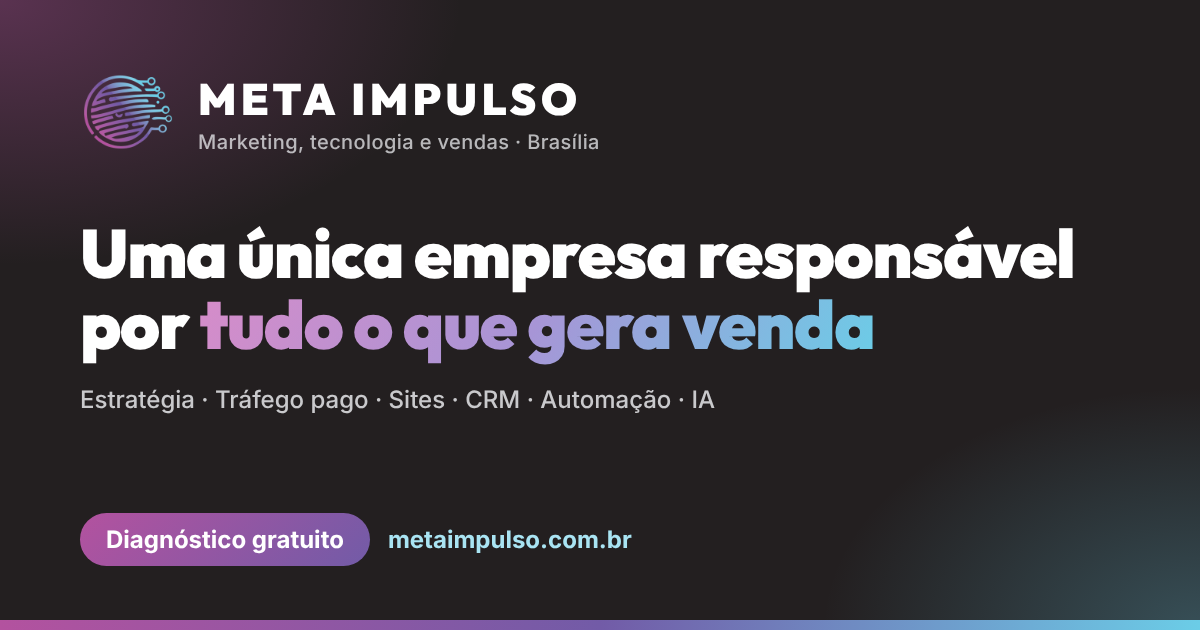
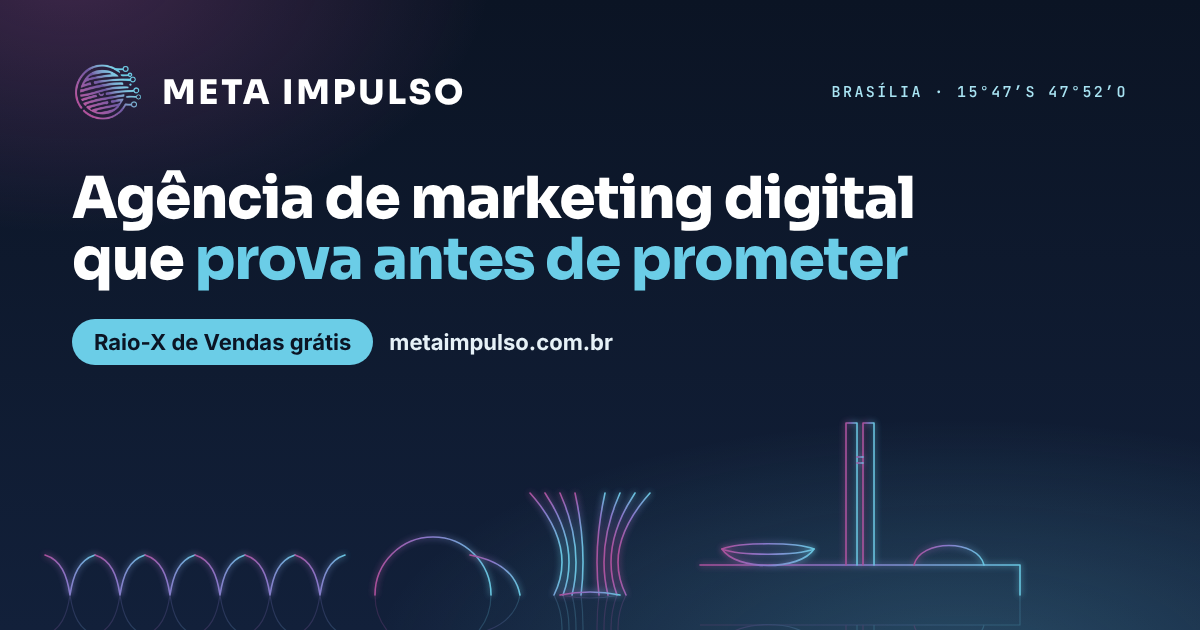
feat: identidade "Capital do Futuro" com a arquitetura de Niemeyer em tom futurista
- Skyline de Brasilia em linhas de luz (Palacio da Alvorada, Museu Nacional, Catedral
  e Congresso Nacional) com reflexo no espelho d'agua, desenhado ao abrir a pagina, no
  topo da home, das paginas de servico, do Raio-X e no rodape
- Ceu azul-noite (#0B1424 -> #12203A) em todas as faixas escuras e curva livre de
  Niemeyer no fim do topo e no inicio do rodape
- Ciano do logo vira a cor de acao: todo botao principal ciano com texto azul-noite
  (borda escura no fundo claro); botao flutuante do WhatsApp em azul-noite
- Gradiente so no logo e no skyline: palavra de destaque dos titulos em cor solida
  (violeta no claro, ciano no escuro)
- Titulos em Sora; coordenadas "Brasilia 15°47'S 47°52'O" no topo da home
- Nova imagem de compartilhamento com o skyline
- Desenho de obras em logradouros publicos e livre (Lei 9.610/98, art. 48)
- Docs de identidade e memoria atualizados

Claude-Session: https://claude.ai/code/session_01SSFr3RnVqEqFYJCmXTu4jx

diff --git a/src/site.css b/src/site.css
@@ -1611,3 +1611,135 @@ a.diag-direct-item:hover { color: var(--magenta-text); }
   .cv-credit-steps { grid-template-columns: 1fr 1fr; }
   .cv-portal-nav span { display: none; }
 }
+
+/* ============================================================
+   19. "CAPITAL DO FUTURO": Niemeyer's Brasília + Raio-X
+       night sky, line-art skyline, Niemeyer curves, cyan = action
+   ============================================================ */
+
+/* --- Night bands (hero, positioning, featured case) --- */
+.hero-cmd {
+  background:
+    radial-gradient(70% 55% at 80% 105%, rgba(107, 205, 231, 0.22) 0%, transparent 70%),
+    radial-gradient(50% 60% at 6% -5%, rgba(179, 82, 159, 0.26) 0%, transparent 70%),
+    linear-gradient(180deg, var(--night) 0%, var(--night-2) 100%);
+  /* Niemeyer's free curve instead of a straight edge */
+  border-radius: 0 0 50% 50% / 0 0 56px 56px;
+}
+.section-dark,
+.cases-featured {
+  background:
+    radial-gradient(55% 60% at 0% 0%, rgba(179, 82, 159, 0.22) 0%, transparent 70%),
+    radial-gradient(45% 55% at 100% 100%, rgba(107, 205, 231, 0.16) 0%, transparent 70%),
+    var(--night);
+}
+.raiox-blind { background: var(--night); }
+.hero-cmd-card { background: rgba(255, 255, 255, 0.055); border-color: rgba(107, 205, 231, 0.22); }
+@media (max-width: 768px) { .hero-cmd-card { background: #15233D; } }
+
+/* --- Skyline --- */
+.skyline { display: block; width: 100%; pointer-events: none; }
+.skyline-reflection { opacity: 0.22; }
+.skyline-draw path { stroke-dasharray: 1; stroke-dashoffset: 1; animation: sky-draw 2.6s cubic-bezier(0.65, 0, 0.35, 1) forwards; }
+@keyframes sky-draw { to { stroke-dashoffset: 0; } }
+.hero-cmd-city { padding-top: clamp(118px, 10.5vw, 150px); padding-bottom: calc(100vw * 225 / 1200 * 0.82); }
+.hero-cmd-city.hero-cmd-compact { padding-bottom: calc(100vw * 225 / 1200 * 0.78); }
+.hero-cmd-city .hero-cmd-title { font-size: clamp(2.1rem, 3.9vw, 3.35rem); }
+/* Full drawing on wide screens (the towers of the Congresso stay whole); phones crop the sides */
+.hero-skyline {
+  position: absolute;
+  left: 0;
+  right: 0;
+  bottom: 0;
+  height: auto;
+  aspect-ratio: 1200 / 225;
+  opacity: 0.85;
+}
+.hero-skyline-compact { opacity: 0.5; }
+.hero-coords {
+  position: absolute;
+  right: max(16px, 4vw);
+  top: clamp(120px, 10.5vw, 150px);
+  z-index: 1;
+  font-family: var(--font-mono);
+  font-size: 0.66rem;
+  letter-spacing: 0.16em;
+  text-transform: uppercase;
+  color: rgba(169, 228, 243, 0.7);
+}
+
+/* --- One color for action: cyan with night text --- */
+.btn-v16-primary,
+.quiz-btn-next {
+  background: var(--brand-cyan);
+  color: var(--night);
+  border: 1.5px solid var(--night);
+  box-shadow: 0 10px 26px rgba(11, 20, 36, 0.18);
+}
+.btn-v16-primary:hover,
+.quiz-btn-next:hover { box-shadow: 0 14px 34px rgba(11, 20, 36, 0.26); }
+.btn-v16-primary::before { background: linear-gradient(90deg, rgba(255, 255, 255, 0) 0%, rgba(255, 255, 255, 0.55) 50%, rgba(255, 255, 255, 0) 100%); }
+.hero-cmd .btn-v16-primary,
+.section-dark .btn-v16-primary,
+.cases-featured .btn-v16-primary,
+.footer-night .btn-v16-primary {
+  border-color: transparent;
+  box-shadow: 0 0 0 1px rgba(107, 205, 231, 0.4), 0 10px 34px rgba(107, 205, 231, 0.28);
+}
+.floating-capsule { background: var(--night); border-color: rgba(107, 205, 231, 0.45); box-shadow: 0 10px 30px rgba(11, 20, 36, 0.35); }
+.floating-capsule svg { color: var(--brand-cyan); stroke: var(--brand-cyan); }
+.capsule-pulse { border-color: var(--brand-cyan); }
+.plan-badge, .leak-num { background: var(--night); color: var(--brand-cyan); }
+.quiz-progress-bar { background: var(--brand-cyan); box-shadow: none; }
+
+/* --- Gradient only in the logo: highlighted words become solid color --- */
+.text-gradient {
+  background: none;
+  -webkit-text-fill-color: currentColor;
+  color: var(--brand-violet);
+}
+.text-gradient-light,
+.section-dark .text-gradient,
+.cases-featured .text-gradient {
+  background: none;
+  -webkit-text-fill-color: currentColor;
+  color: var(--brand-cyan);
+}
+.section-dark .oneteam-us .text-gradient { color: var(--brand-violet); }
+
+/* --- Night footer with the skyline and a Niemeyer curve on top --- */
+.footer-night {
+  position: relative;
+  overflow: hidden;
+  border-top: none;
+  margin-top: 2rem;
+  padding-top: calc(100vw * 225 / 1200 * 0.9);
+  color: rgba(230, 241, 247, 0.78);
+  background:
+    radial-gradient(60% 50% at 50% 0%, rgba(107, 205, 231, 0.14) 0%, transparent 70%),
+    linear-gradient(180deg, var(--night-2) 0%, var(--night) 60%);
+  border-radius: 50% 50% 0 0 / 56px 56px 0 0;
+}
+.footer-skyline { position: absolute; top: 12px; left: 0; right: 0; height: auto; aspect-ratio: 1200 / 225; opacity: 0.5; }
+.footer-night > .container { position: relative; z-index: 1; }
+.footer-night .logo-text { color: #FFFFFF; }
+.footer-night .footer-title { color: #FFFFFF; }
+.footer-night .footer-brand p,
+.footer-night .footer-contact span,
+.footer-night .footer-contact a,
+.footer-night .footer-list a { color: rgba(230, 241, 247, 0.72); }
+.footer-night .footer-list a:hover,
+.footer-night .footer-contact a:hover { color: var(--brand-cyan); }
+.footer-night .footer-social a { color: var(--brand-cyan) !important; }
+.footer-night .footer-bottom { color: rgba(230, 241, 247, 0.55); border-top-color: rgba(255, 255, 255, 0.1); }
+
+@media (max-width: 768px) {
+  .hero-cmd { border-radius: 0 0 50% 50% / 0 0 32px 32px; }
+  .hero-skyline, .footer-skyline { aspect-ratio: auto; height: 140px; }
+  .hero-cmd-city, .hero-cmd-city.hero-cmd-compact { padding-bottom: 150px; }
+  .footer-night { border-radius: 50% 50% 0 0 / 32px 32px 0 0; padding-top: 160px; }
+  .hero-coords { display: none; }
+}
+@media (prefers-reduced-motion: reduce) {
+  .skyline-draw path { animation: none; stroke-dashoffset: 0; }
+}

diff --git a/src/components/BrasiliaSkyline.tsx b/src/components/BrasiliaSkyline.tsx
@@ -1,0 +1,83 @@
+import { useId } from 'react'
+
+// Brasília's modernist skyline as glowing line art: Palácio da Alvorada columns, Museu Nacional,
+// Catedral and Congresso Nacional, mirrored in the reflecting pool. Public-space architecture may be
+// freely drawn (Lei 9.610/98, art. 48).
+const HORIZON = 230
+
+// Alvorada: columns that touch the ground at a point and open up to the slab
+const ALVORADA = Array.from({ length: 6 }, (_, i) => {
+  const cx = 70 + i * 50
+  return `M${cx - 25},190 C${cx - 9},195 ${cx - 3},210 ${cx},${HORIZON} C${cx + 3},210 ${cx + 9},195 ${cx + 25},190`
+})
+
+// Catedral: hyperboloid ribs, narrow at the waist and flaring into a crown
+const CATEDRAL = Array.from({ length: 9 }, (_, i) => {
+  const k = i - 4
+  return `M${590 + k * 9},${HORIZON} Q${590 + k * 3},182 ${590 + k * 15},128`
+})
+
+const PATHS = [
+  // horizon
+  `M0,${HORIZON} L1200,${HORIZON}`,
+  // Alvorada slab and floor
+  'M40,190 L350,190',
+  'M40,186 L350,186',
+  ...ALVORADA,
+  // Museu Nacional: dome and ramp
+  `M375,${HORIZON} A58,58 0 0 1 491,${HORIZON}`,
+  `M470,190 Q514,198 520,${HORIZON}`,
+  // Catedral
+  ...CATEDRAL,
+  `M560,${HORIZON} Q590,224 620,${HORIZON}`,
+  // Congresso: long platform, Câmara bowl, Senado dome, twin towers and bridge
+  `M700,200 L1020,200 L1020,${HORIZON}`,
+  `M700,200 L700,${HORIZON}`,
+  'M722,184 C736,206 800,206 814,184',
+  'M722,184 C740,177 796,177 814,184 C796,191 740,191 722,184',
+  'M914,200 C920,174 978,174 984,200',
+  'M846,200 L846,58 L857,58 L857,200',
+  'M863,200 L863,58 L874,58 L874,200',
+  'M857,92 L863,92 M857,98 L863,98',
+]
+
+export default function BrasiliaSkyline({ className = '', animate = true }: { className?: string; animate?: boolean }) {
+  const id = useId().replace(/:/g, '')
+  const stroke = `sky-stroke-${id}`
+  const glow = `sky-glow-${id}`
+  return (
+    <svg
+      className={`skyline ${animate ? 'skyline-draw' : ''} ${className}`}
+      viewBox="0 40 1200 225"
+      preserveAspectRatio="xMidYMax slice"
+      aria-hidden="true"
+      focusable="false"
+    >
+      <defs>
+        <linearGradient id={stroke} x1="0" y1="0" x2="1" y2="0">
+          <stop offset="0%" stopColor="#B3529F" />
+          <stop offset="45%" stopColor="#8F7BD0" />
+          <stop offset="100%" stopColor="#6BCDE7" />
+        </linearGradient>
+        <filter id={glow} x="-10%" y="-30%" width="120%" height="160%">
+          <feGaussianBlur stdDeviation="3" result="b" />
+          <feMerge>
+            <feMergeNode in="b" />
+            <feMergeNode in="SourceGraphic" />
+          </feMerge>
+        </filter>
+      </defs>
+      <g fill="none" stroke={`url(#${stroke})`} strokeWidth="1.6" strokeLinecap="round" strokeLinejoin="round" filter={`url(#${glow})`}>
+        {PATHS.map((d, i) => (
+          <path key={i} d={d} pathLength={1} style={{ animationDelay: `${(i % 12) * 0.08}s` }} />
+        ))}
+      </g>
+      {/* Reflecting pool */}
+      <g className="skyline-reflection" fill="none" stroke={`url(#${stroke})`} strokeWidth="1.2" transform={`translate(0 ${HORIZON * 2}) scale(1 -1)`}>
+        {PATHS.slice(1).map((d, i) => (
+          <path key={i} d={d} pathLength={1} style={{ animationDelay: `${(i % 12) * 0.08 + 0.4}s` }} />
+        ))}
+      </g>
+    </svg>
+  )
+}

diff --git a/src/pages/HomePage.tsx b/src/pages/HomePage.tsx
@@ -4,6 +4,7 @@ import AboutLogoVfx from '../components/AboutLogoVfx'
 import DiagnosticSection from '../components/DiagnosticSection'
 import CasesShowcase from '../components/CasesShowcase'
 import { RaioXForm } from '../components/RaioX'
+import BrasiliaSkyline from '../components/BrasiliaSkyline'
 import { ProcessSection, PlansSection, FaqSection, OneTeamSection, TestimonialsSection } from '../components/Sections'
 import { HOME_FAQ, FUNNEL_LEAKS, RAIOX_CHECKS, whatsappLink } from '../content/site'
 import { track } from '../lib/analytics'
@@ -22,7 +23,9 @@ export default function HomePage() {
     <main id="conteudo">
       {/* HERO — the proof comes first: a live Raio-X of the visitor's own site.
           No entrance animation on the H1 so the LCP text paints straight from the prerendered HTML. */}
-      <section id="hero" className="hero-cmd">
+      <section id="hero" className="hero-cmd hero-cmd-city">
+        <BrasiliaSkyline className="hero-skyline" />
+        <span className="hero-coords" aria-hidden="true">Brasília · 15°47′S 47°52′O</span>
         <div className="container hero-cmd-grid">
           <div className="hero-cmd-copy">
             <span className="eyebrow eyebrow-dark">Marketing, tecnologia e vendas · Brasília - DF</span>

diff --git a/src/pages/ToolPage.tsx b/src/pages/ToolPage.tsx
@@ -1,6 +1,7 @@
 import { useEffect, useRef } from 'react'
 import { Gauge, Radar, MousePointerClick, Search, CheckCircle2 } from 'lucide-react'
 import { RaioXForm, RaioXProgress, RaioXResult } from '../components/RaioX'
+import BrasiliaSkyline from '../components/BrasiliaSkyline'
 import { FaqSection } from '../components/Sections'
 import DiagnosticSection from '../components/DiagnosticSection'
 import { RAIOX_CHECKS, RAIOX_HUMAN_CHECKS, TOOL_FAQ } from '../content/site'
@@ -30,7 +31,8 @@ export default function ToolPage() {
 
   return (
     <main id="conteudo">
-      <section className="hero-cmd hero-cmd-compact">
+      <section className="hero-cmd hero-cmd-compact hero-cmd-city">
+        <BrasiliaSkyline className="hero-skyline hero-skyline-compact" />
         <div className="container">
           <nav className="breadcrumb breadcrumb-dark" aria-label="Você está em">
             <a href="/">Início</a> <span aria-hidden="true">/</span> <span>Análise de site grátis</span>

diff --git a/src/pages/ServicePage.tsx b/src/pages/ServicePage.tsx
@@ -4,6 +4,7 @@ import type { ServiceContent } from '../content/services'
 import { SERVICES } from '../content/services'
 import { whatsappLink } from '../content/site'
 import { ProcessSection, FaqSection } from '../components/Sections'
+import BrasiliaSkyline from '../components/BrasiliaSkyline'
 import DiagnosticSection from '../components/DiagnosticSection'
 import { track } from '../lib/analytics'
 
@@ -12,7 +13,8 @@ export default function ServicePage({ service }: { service: ServiceContent }) {
 
   return (
     <main id="conteudo">
-      <section className="hero-cmd hero-cmd-compact service-hero">
+      <section className="hero-cmd hero-cmd-compact hero-cmd-city service-hero">
+        <BrasiliaSkyline className="hero-skyline hero-skyline-compact" />
         <div className="container">
           <nav className="breadcrumb" aria-label="Você está em">
             <a href="/">Início</a> <span aria-hidden="true">/</span> <span>{service.navLabel}</span>

diff --git a/index.html b/index.html
@@ -19,13 +19,13 @@
     <link
       rel="preload"
       as="style"
-      href="https://fonts.googleapis.com/css2?family=Inter:wght@400;600;700;900&family=Outfit:wght@400;700;900&family=JetBrains+Mono:wght@400;700&display=swap"
+      href="https://fonts.googleapis.com/css2?family=Inter:wght@400;600;700;900&family=Sora:wght@400;600;700;800&family=JetBrains+Mono:wght@400;700&display=swap"
       onload="this.onload=null;this.rel='stylesheet'"
     />
     <noscript>
       <link
         rel="stylesheet"
-        href="https://fonts.googleapis.com/css2?family=Inter:wght@400;600;700;900&family=Outfit:wght@400;700;900&family=JetBrains+Mono:wght@400;700&display=swap"
+        href="https://fonts.googleapis.com/css2?family=Inter:wght@400;600;700;900&family=Sora:wght@400;600;700;800&family=JetBrains+Mono:wght@400;700&display=swap"
       />
     </noscript>
   </head>

diff --git a/src/index.css b/src/index.css
@@ -7,6 +7,9 @@
   --brand-violet:    #725BA7;
   --brand-cyan:      #6BCDE7;
   --brand-ink:       #231F20;
+  /* "Capital do Futuro": Brasília night sky / radiograph film, used for every dark band */
+  --night:           #0B1424;
+  --night-2:         #12203A;
 
   /* Legacy token names kept so existing components follow the brand */
   --magenta-neon:    var(--brand-plum);
@@ -39,7 +42,7 @@
 
   /* Typography Scale */
   --font-main:    'Inter', system-ui, sans-serif;
-  --font-heading: 'Outfit', system-ui, sans-serif;
+  --font-heading: 'Sora', 'Outfit', system-ui, sans-serif;
   --font-mono:    'JetBrains Mono', ui-monospace, monospace;
 }
 

diff --git a/src/components/SiteFooter.tsx b/src/components/SiteFooter.tsx
@@ -1,9 +1,11 @@
 import { SITE, whatsappLink } from '../content/site'
 import { SERVICES } from '../content/services'
+import BrasiliaSkyline from './BrasiliaSkyline'
 
 export default function SiteFooter() {
   return (
-    <footer className="footer-section">
+    <footer className="footer-section footer-night">
+      <BrasiliaSkyline className="footer-skyline" animate={false} />
       <div className="container">
         <div className="footer-grid">
           <div className="footer-brand">

diff --git a/docs/IDENTIDADE-VISUAL.md b/docs/IDENTIDADE-VISUAL.md
@@ -3,6 +3,24 @@
 > Squad: AURA (marca) · VANTA (direção) · PIXEL (peças)
 > Fonte: logo oficial em `logopdf/META IMPULSO.pdf.pdf` (cores medidas no arquivo) **[F]**
 
+## Direção atual: "Capital do Futuro" (novembro de 2026)
+
+Brasília foi desenhada para ser a cidade do futuro. A identidade junta a arquitetura de Oscar Niemeyer com o tom tecnológico do Raio-X de Vendas.
+
+| Elemento | Regra |
+|---|---|
+| **Céu noturno** | Faixas escuras em azul-noite `#0B1424` → `#12203A` (topo das páginas, "Um único responsável", case principal, rodapé). O grafite `#231F20` fica para o logo em versão escura. |
+| **Skyline em linhas de luz** | Palácio da Alvorada, Museu Nacional, Catedral e Congresso Nacional desenhados em traço fino com o gradiente do logo e reflexo no espelho d'água (`src/components/BrasiliaSkyline.tsx`). Se desenha ao abrir a página. |
+| **Curva livre de Niemeyer** | O topo das páginas termina em curva e o rodapé começa em curva, nunca em linha reta. |
+| **Ciano = ação** | Todo botão principal é ciano `#6BCDE7` com texto azul-noite. Nenhum outro elemento usa ciano como fundo. No fundo claro, o botão leva borda azul-noite. |
+| **Gradiente só no logo e no skyline** | Palavra de destaque nos títulos em cor sólida: violeta `#725BA7` no claro, ciano no escuro. |
+| **Coordenadas** | "Brasília · 15°47′S 47°52′O" em fonte técnica: detalhe que só uma empresa de Brasília usa. |
+| **Tipografia** | Títulos em **Sora**; textos em **Inter**; números e rótulos em **JetBrains Mono**. |
+
+**Direitos (SENTINEL):** desenhar obras situadas permanentemente em logradouros públicos é livre (Lei 9.610/98, art. 48). Não usar o nome de Niemeyer como endosso da marca.
+
+Comparação das direções avaliadas: https://claude.ai/artifact/MguTiFd1EWnNSSGhnZs7e3
+
 ## Cores
 
 | Papel | Cor | Uso |
@@ -29,8 +47,8 @@ O ciano puro `#6BCDE7` não tem contraste suficiente sobre branco: use-o em íco
 - Laranja e magenta neon foram usados em versões antigas do site e **não fazem parte da marca**. Não usar em anúncios nem em peças.
 - Nome da marca em violeta `#725BA7` (fundo claro) ou branco (fundo escuro).
 - O logo antigo traz o subtítulo "Agência de marketing digital". No posicionamento atual, use "Marketing, tecnologia e vendas".
-- Tipografia do site: **Outfit** (títulos), **Inter** (textos), **JetBrains Mono** (rótulos técnicos).
-- Imagem de compartilhamento (WhatsApp/LinkedIn): `public/og-image.png`, 1200×630, versão escura.
+- Tipografia do site: **Sora** (títulos), **Inter** (textos), **JetBrains Mono** (rótulos técnicos).
+- Imagem de compartilhamento (WhatsApp/LinkedIn): `public/og-image.png`, 1200×630, céu noturno com o skyline.
 
 ## Linguagem visual: "sala de comando"
 

diff --git a/CLAUDE.md b/CLAUDE.md
@@ -50,7 +50,7 @@ Top 5 = aparecer no mapa (Perfil da Empresa, maior alavanca) + resultado orgâni
 
 ## 7. Identidade visual (AURA · PIXEL): `docs/IDENTIDADE-VISUAL.md`
 
-Cores oficiais do logo (`logopdf/`): ameixa `#B3529F` · violeta `#725BA7` · ciano `#6BCDE7` · grafite `#231F20`. Laranja e magenta neon **não** fazem parte da marca. Tokens em `src/index.css` (`--brand-*`, `--gradient-meta`, `--gradient-text`, `--gradient-brand`). Linguagem "sala de comando": topo escuro com grade (`.hero-cmd`), Raio-X como herói visual, sem foguete/estrelas/ícones flutuantes.
+Cores oficiais do logo (`logopdf/`): ameixa `#B3529F` · violeta `#725BA7` · ciano `#6BCDE7` · grafite `#231F20`. Laranja e magenta neon **não** fazem parte da marca. Tokens em `src/index.css` (`--brand-*`, `--gradient-meta`, `--gradient-text`, `--gradient-brand`). Direção **"Capital do Futuro"** (Niemeyer + Raio-X): céu azul-noite `#0B1424` nas faixas escuras, skyline de Brasília em linhas de luz (`BrasiliaSkyline`), curva de Niemeyer no topo e no rodapé, **ciano = cor de ação** (botões ciano com texto escuro), gradiente só no logo e no skyline, títulos em Sora, coordenadas 15°47′S 47°52′O. Sem foguete/estrelas/ícones flutuantes.
 
 ## 8. Pendências abertas (atualize ao resolver)
 
